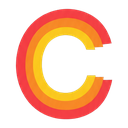
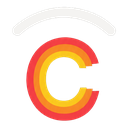
Include white arc in nav mark
Claude-Session: https://claude.ai/code/session_01FKbyRMwEbfgpwUfnn9gTMx

diff --git a/index.html b/index.html
@@ -9,17 +9,17 @@
 <meta property="og:description" content="Makers of ingtype. Your iPad as a silent Magic Keyboard, your iPhone as the trackpad.">
 <meta property="og:image" content="assets/img/og-icon.jpg">
 <meta name="theme-color" content="#0e1122">
-<link rel="icon" href="assets/img/favicon-clapre.png">
+<link rel="icon" href="assets/img/favicon-clapre.png?v=4">
 <link rel="apple-touch-icon" href="assets/img/icon-256.png">
 <link rel="stylesheet" href="https://cdn.jsdelivr.net/gh/orioncactus/pretendard@v1.3.9/dist/web/variable/pretendardvariable-dynamic-subset.min.css">
-<link rel="stylesheet" href="assets/style.css?v=3">
-<script src="assets/site.js?v=3" defer></script>
+<link rel="stylesheet" href="assets/style.css?v=4">
+<script src="assets/site.js?v=4" defer></script>
 </head>
 <body>
 
 <header class="nav">
   <div class="wrap">
-    <a class="brand" href="#" data-tab="clapre"><img class="brand-mark" src="assets/img/clapre-mark.png" width="28" height="28" alt=""><span>Clapre</span></a>
+    <a class="brand" href="#" data-tab="clapre"><img class="brand-mark" src="assets/img/clapre-mark.png?v=4" width="32" height="32" alt=""><span>Clapre</span></a>
     <nav class="tabs" role="tablist">
       <a href="#" data-tab="clapre">Clapre</a>
       <a href="#ingtype" data-tab="ingtype">ingtype</a>

diff --git a/assets/style.css b/assets/style.css
@@ -226,7 +226,7 @@ footer a:hover { color: var(--ink); }
 
 /* ---------- 탭 ---------- */
 .panel[hidden] { display: none; }
-.brand-mark { width: 28px; height: 28px; border-radius: 0; }
+.brand-mark { width: 32px; height: 32px; border-radius: 0; }
 .tabs { display: flex; gap: 4px; margin-left: auto; font-size: 15px; }
 .tabs a { padding: 6px 14px; border-radius: 999px; color: var(--ink-2); transition: color .2s, background .2s; }
 .tabs a:hover { color: var(--ink); }
